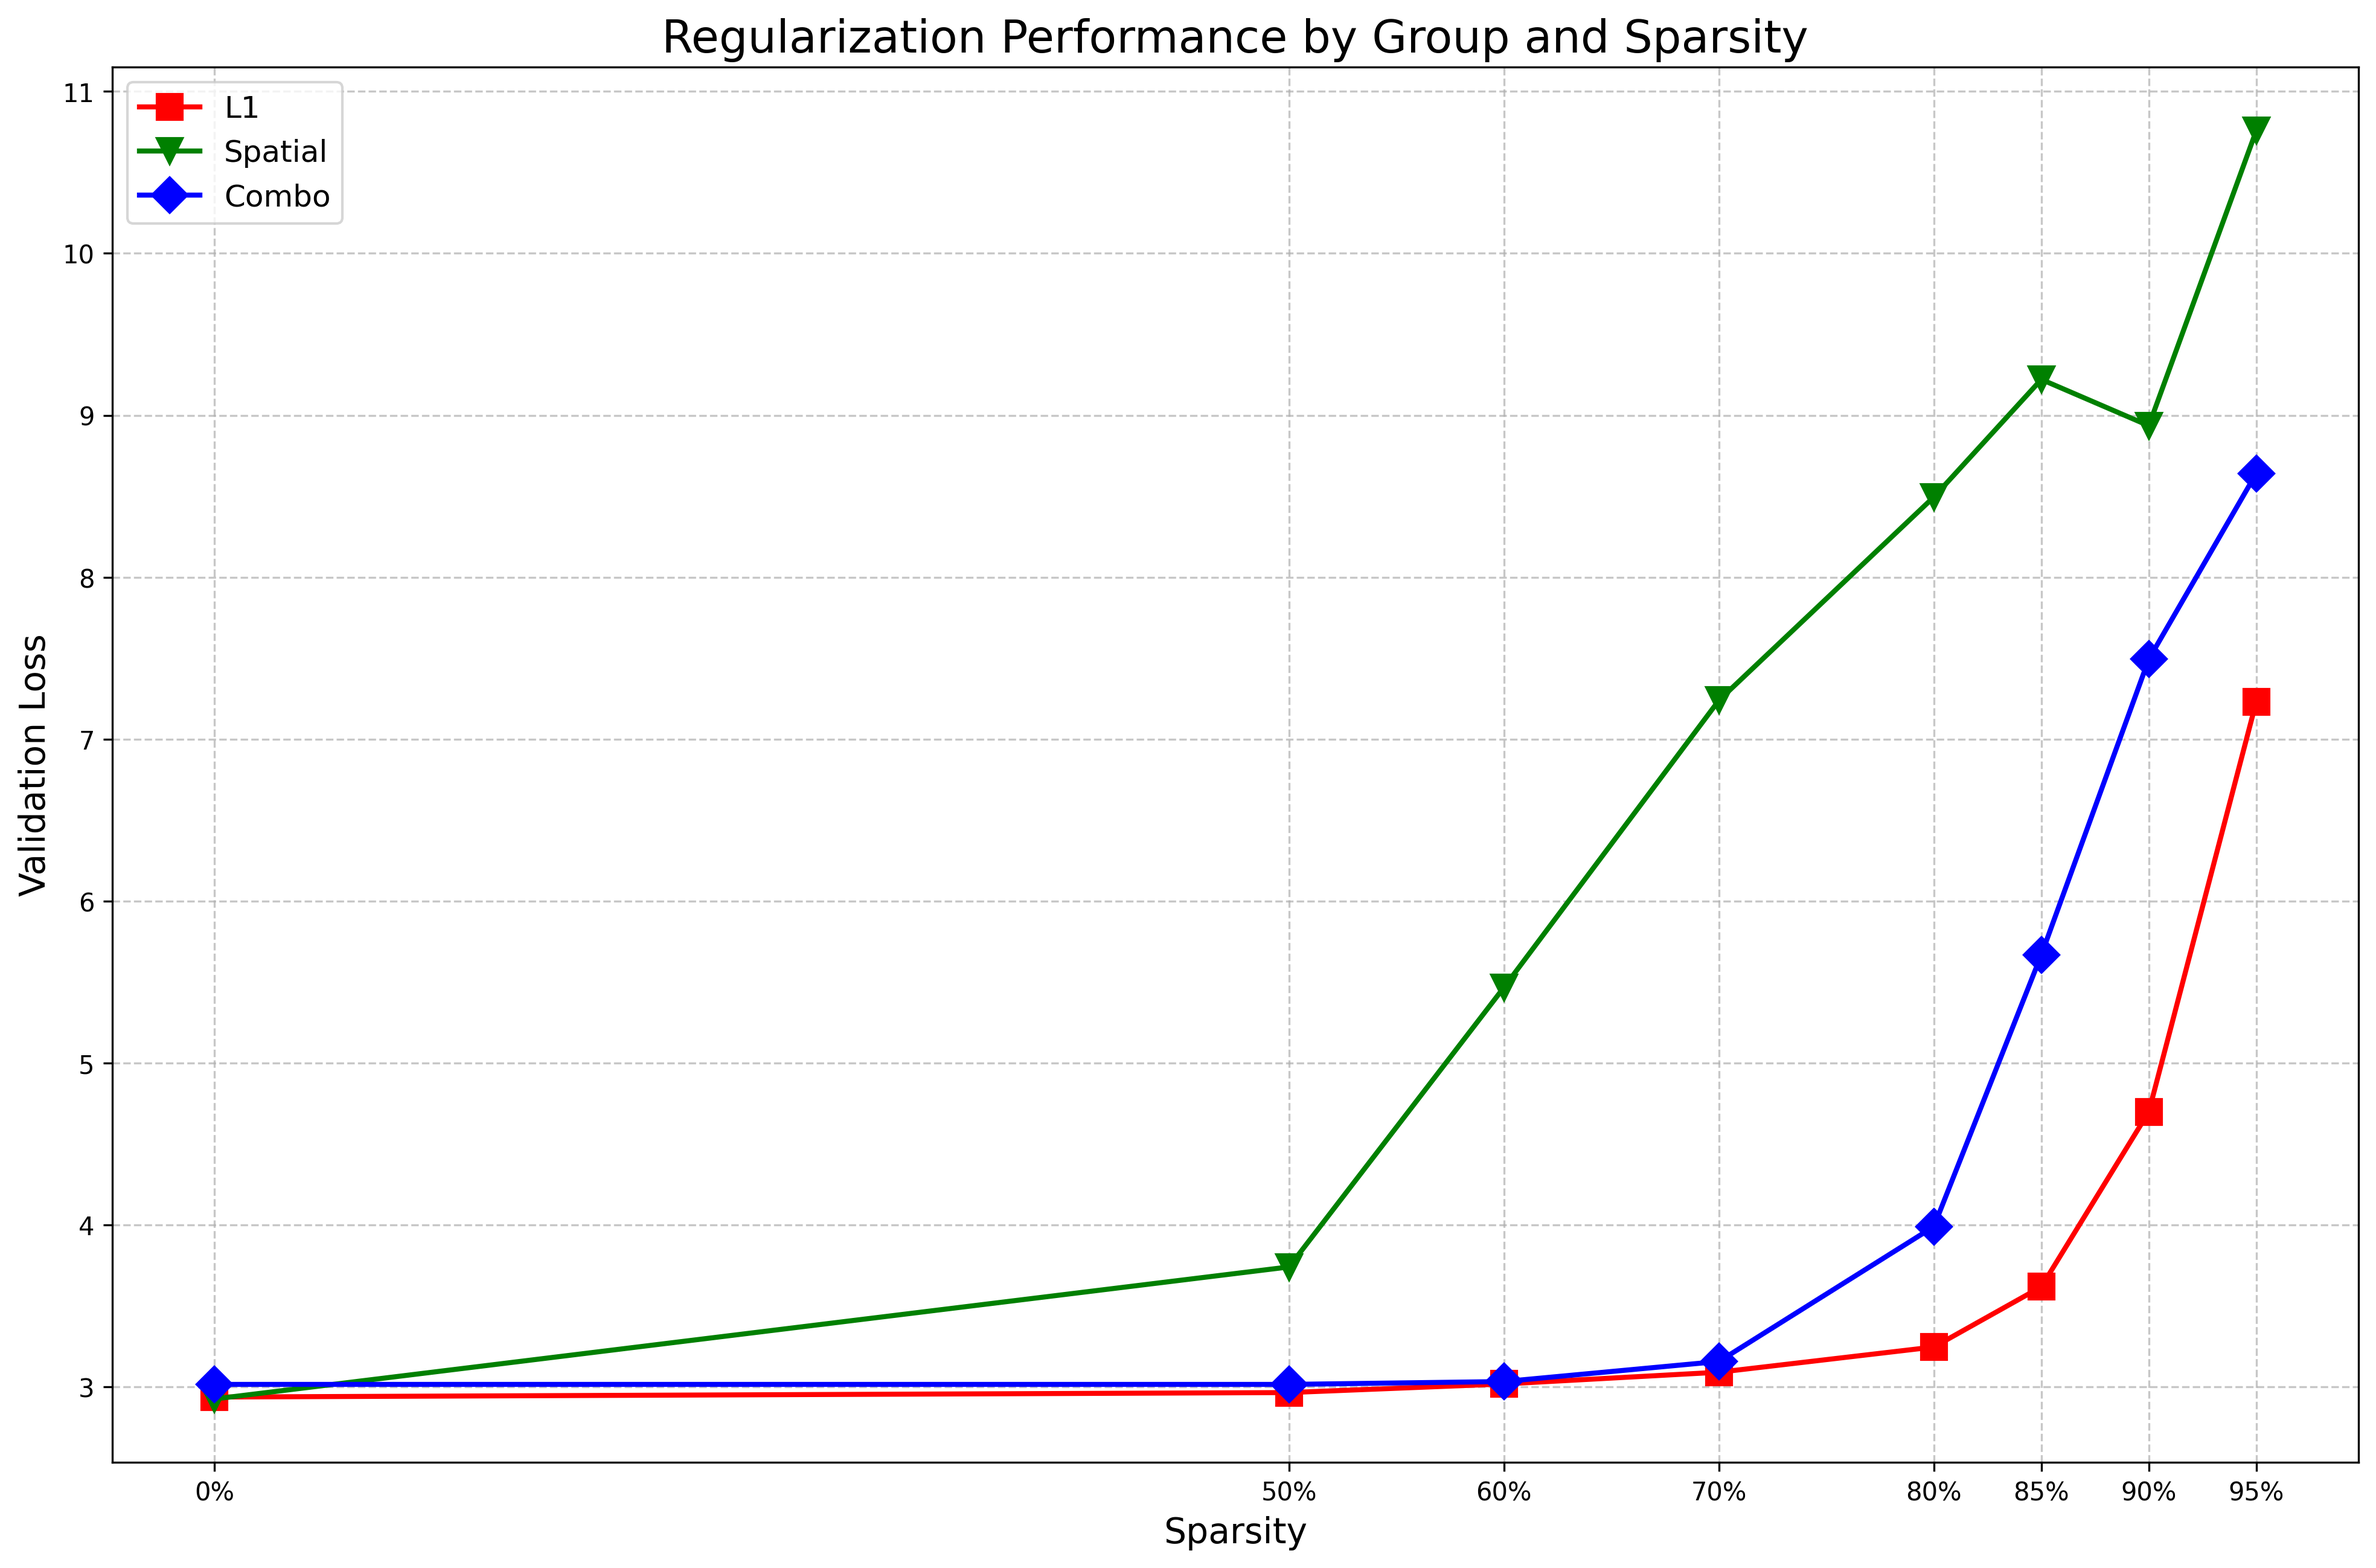
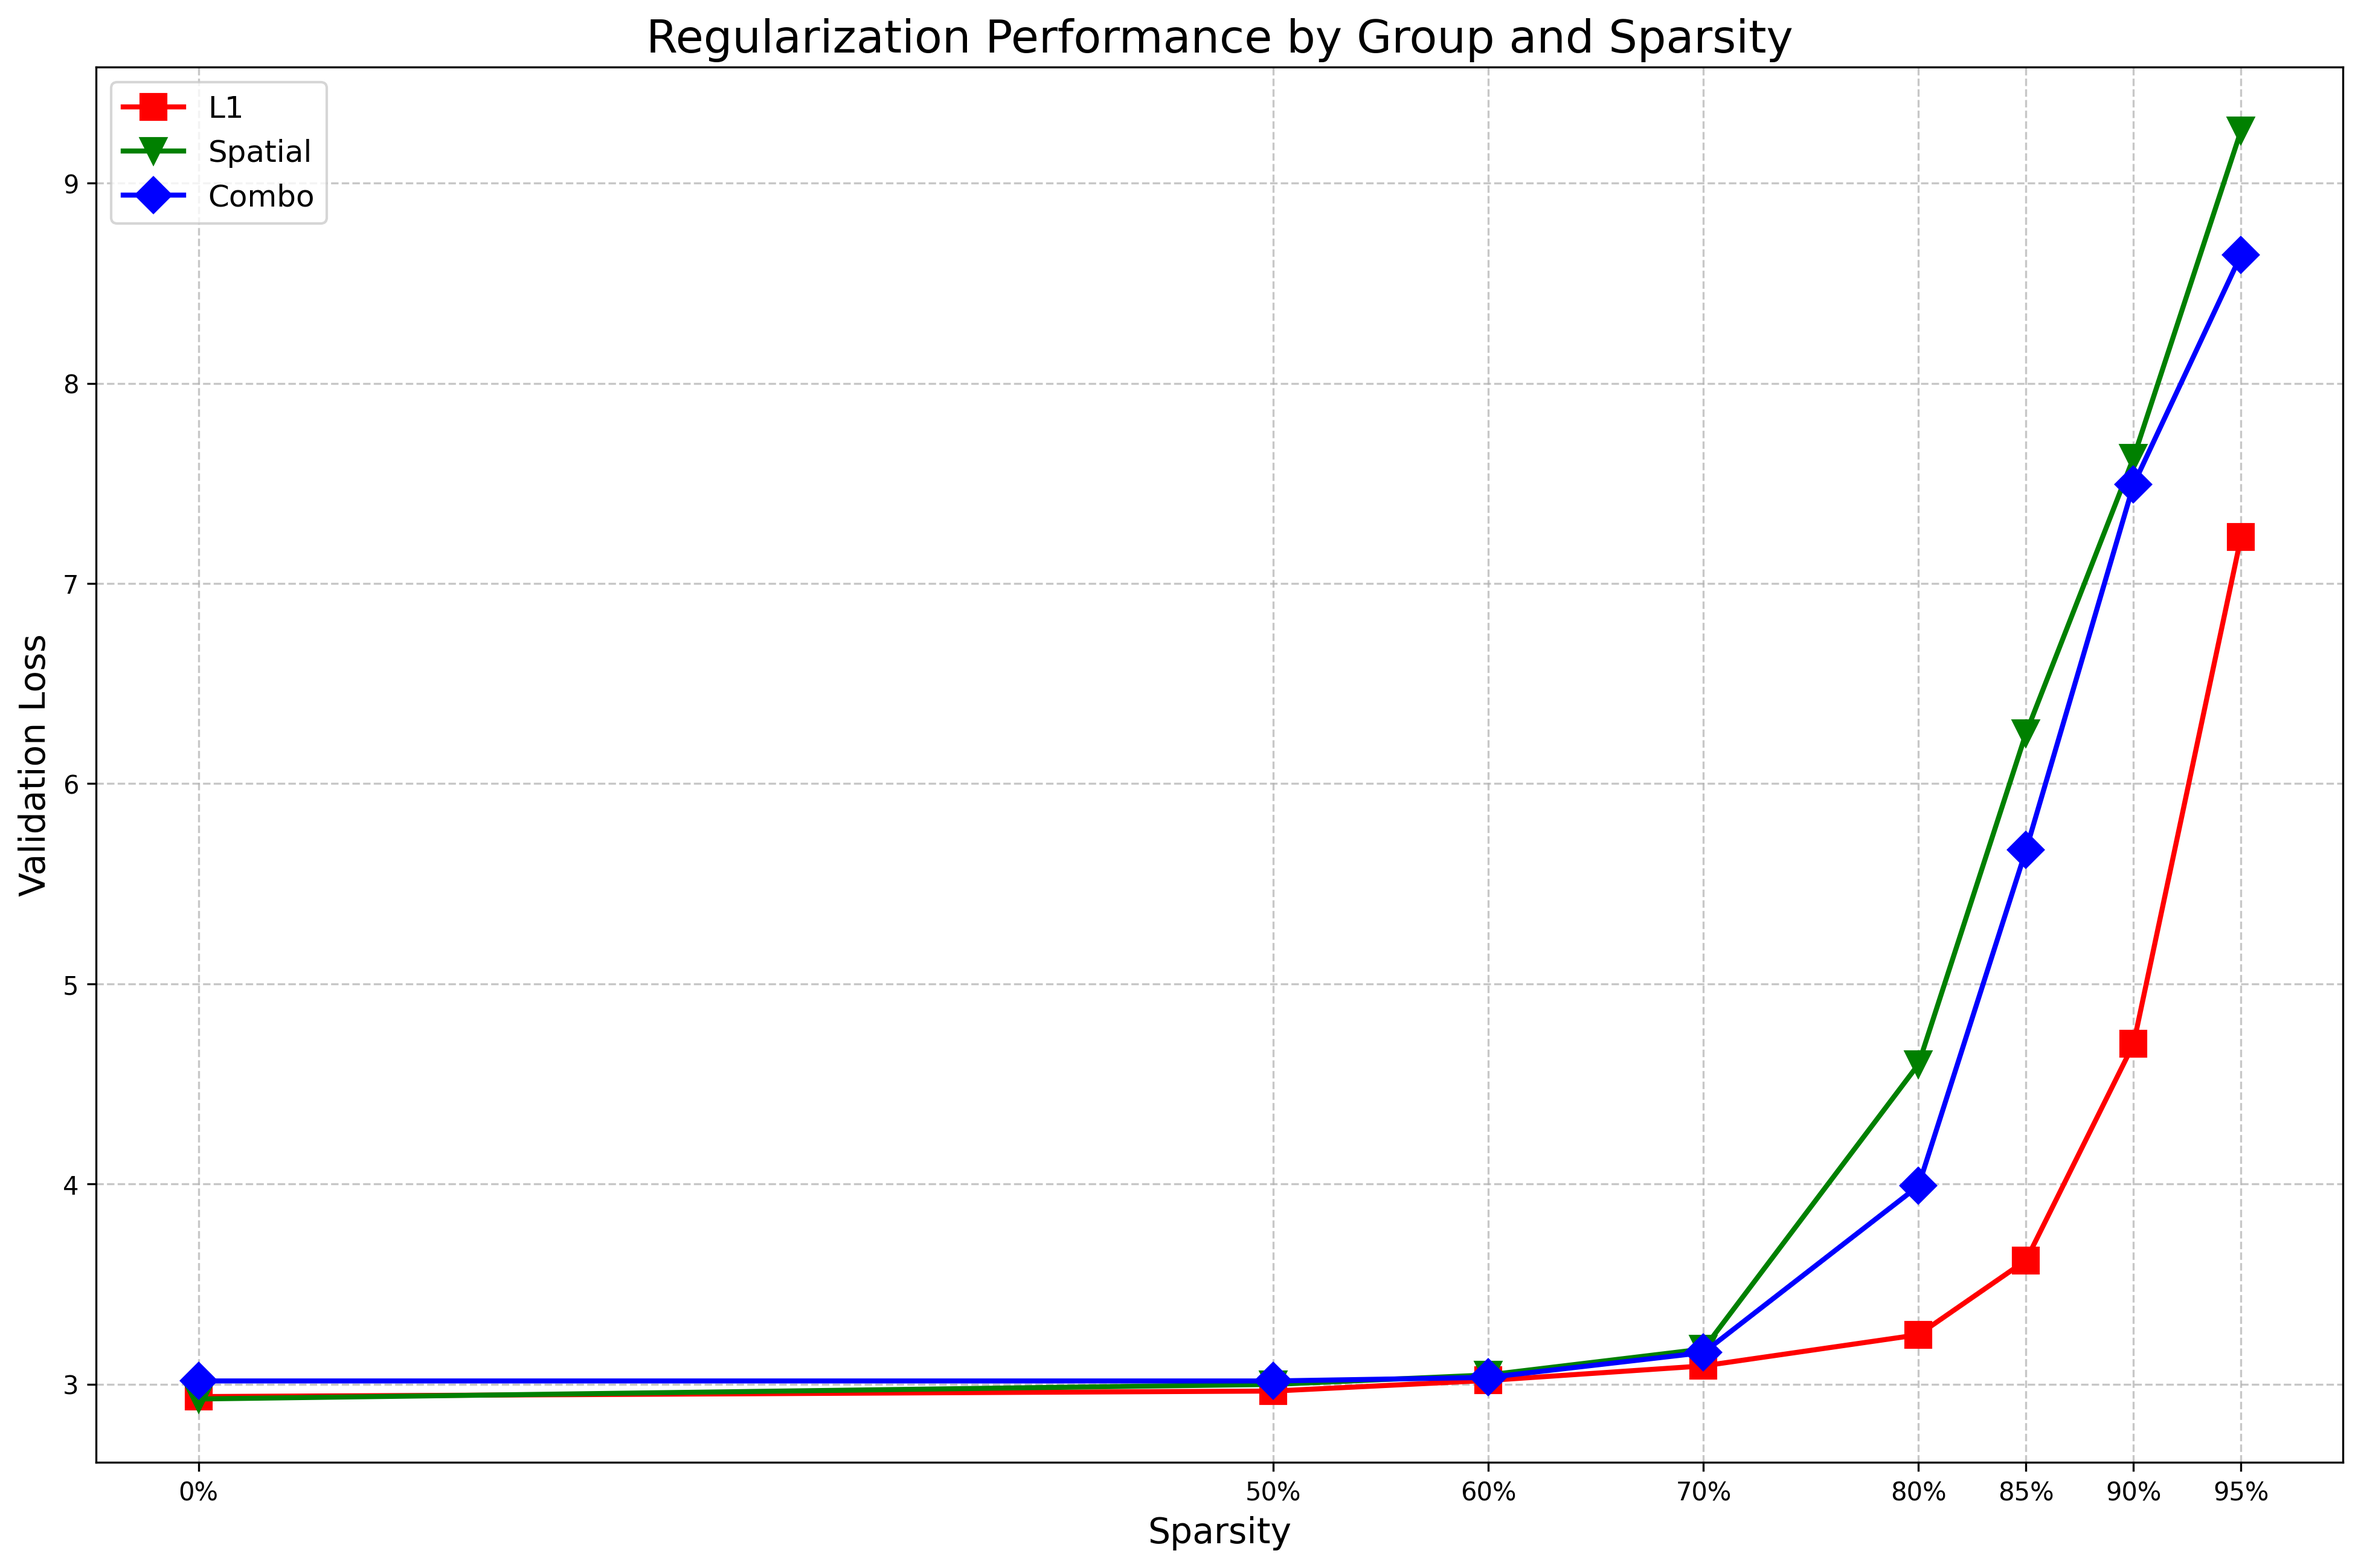
new cloud configs

diff --git a/config/empire_runs/l1_32_spatial_16.py b/config/empire_runs/l1_32_spatial_16.py
@@ -1,0 +1,24 @@
+# config for training GPT-2 (124M) with spatial regularization
+wandb_log = True
+wandb_project = 'spatial-gpt2'
+wandb_run_name = 'l1_16_spatial_64'
+# these make the total batch size be ~0.5M
+# 12 batch size * 1024 block size * 5 gradaccum * 8 GPUs = 491,520
+batch_size = 12
+block_size = 1024
+gradient_accumulation_steps = 5 * 8
+# this makes total number of tokens be 300B / 6
+max_iters = 100000
+lr_decay_iters = 100000
+# eval stuff
+eval_interval = 1000
+eval_iters = 200
+log_interval = 10
+# weight decay (L2 regularization)
+weight_decay = 0
+# regularization
+spatial_cost_scale = 16
+spatial_mode = "fixed"
+optimize_interval = 500
+spatial_d_value = 0.0
+l1_scale = 32

diff --git a/config/empire_runs/l1_32_spatial_32.py b/config/empire_runs/l1_32_spatial_32.py
@@ -1,0 +1,24 @@
+# config for training GPT-2 (124M) with spatial regularization
+wandb_log = True
+wandb_project = 'spatial-gpt2'
+wandb_run_name = 'l1_16_spatial_64'
+# these make the total batch size be ~0.5M
+# 12 batch size * 1024 block size * 5 gradaccum * 8 GPUs = 491,520
+batch_size = 12
+block_size = 1024
+gradient_accumulation_steps = 5 * 8
+# this makes total number of tokens be 300B / 6
+max_iters = 100000
+lr_decay_iters = 100000
+# eval stuff
+eval_interval = 1000
+eval_iters = 200
+log_interval = 10
+# weight decay (L2 regularization)
+weight_decay = 0
+# regularization
+spatial_cost_scale = 32
+spatial_mode = "fixed"
+optimize_interval = 500
+spatial_d_value = 0.0
+l1_scale = 32

diff --git a/config/empire_runs/l1_32_spatial_64.py b/config/empire_runs/l1_32_spatial_64.py
@@ -21,4 +21,4 @@ spatial_cost_scale = 64
 spatial_mode = "fixed"
 optimize_interval = 500
 spatial_d_value = 0.0
-l1_scale = 16
+l1_scale = 32
